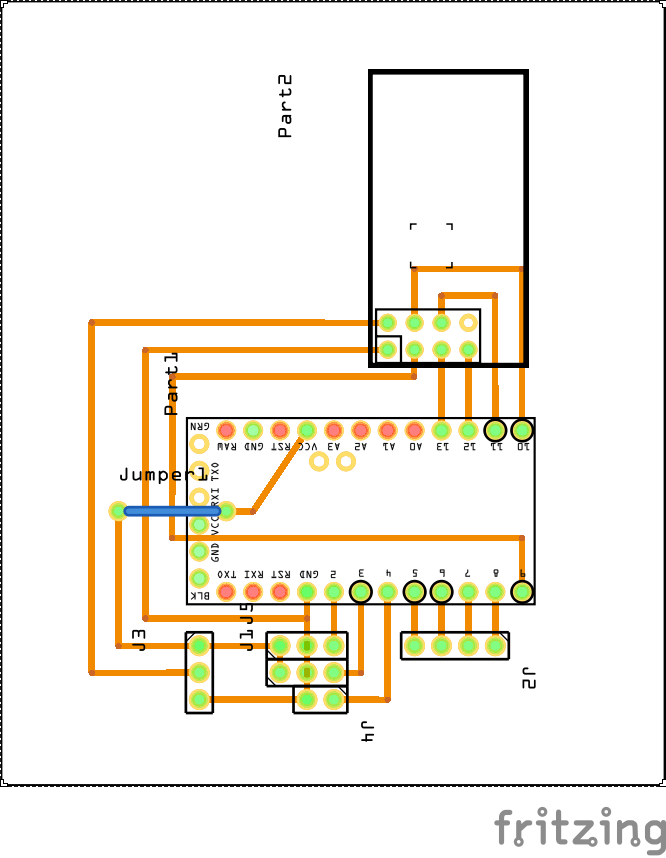
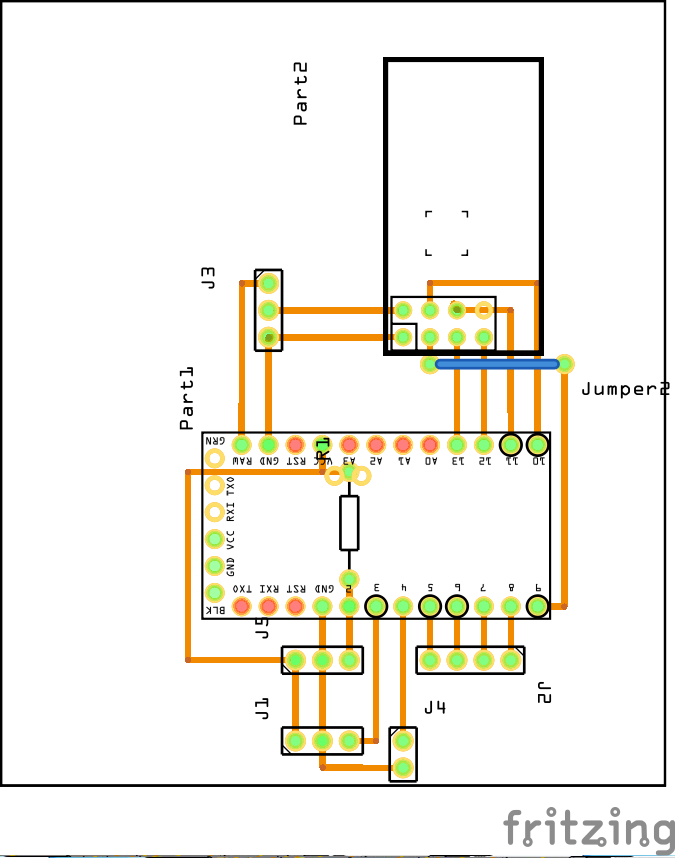
Water level control added

diff --git a/src/main.cpp b/src/main.cpp
@@ -1,5 +1,6 @@
 #define MY_RADIO_NRF24
 #define MY_DEBUG
+#define MY_NODE_ID 1
 
 #include <SPI.h>
 #include <MySensors.h>
@@ -15,21 +16,22 @@
 
 #define WATER_LEVEL_PIN 4
 
-#define TEMPERATURE_CHILD_ID 0
-#define FLOW_CHILD_ID 1
-#define VOLUME_CHILD_ID 2
-#define LEVEL_CHILD_ID 3
+#define RELAY_1_PIN 5
+
+#define TEMPERATURE_CHILD_ID 1
+#define WATER_CHILD_ID 2
+#define RELAY_1_ID 11
 
 MyMessage tempMsg(TEMPERATURE_CHILD_ID, V_TEMP);
-MyMessage flowMsg(FLOW_CHILD_ID, V_FLOW);
-MyMessage volumeMsg(VOLUME_CHILD_ID, V_VOLUME);
-MyMessage levelMsg(LEVEL_CHILD_ID, V_STATUS);
+MyMessage flowMsg(WATER_CHILD_ID, V_FLOW);
+MyMessage volumeMsg(WATER_CHILD_ID, V_VOLUME);
+MyMessage levelMsg(WATER_CHILD_ID, V_VAR1);
 
 OneWire oneWire(WATER_TEMPERATURE_PIN);
 DallasTemperature sensors(&oneWire);
 Bounce debouncer = Bounce();
 
-volatile byte flowPulseCount;
+volatile uint32_t flowPulseCount;
 
 unsigned long volume;
 
@@ -48,13 +50,13 @@ void before() {
 }
 
 void presentation() {
-    sendSketchInfo("Aquarium sensors", "0.4");
+    sendSketchInfo("Aquarium sensors", "0.5");
     wait(500);
     present(TEMPERATURE_CHILD_ID, S_TEMP, "Water temperature");
     wait(500);
-    present(FLOW_CHILD_ID, S_WATER, "Water flow");
+    present(WATER_CHILD_ID, S_WATER, "Water flow/level");
     wait(500);
-    present(LEVEL_CHILD_ID, S_BINARY, "Water level");
+    present(RELAY_1_ID, S_BINARY, "Relay 1");
     wait(500);
 }
 
@@ -63,6 +65,9 @@ void setup() {
 
     pinMode(WATER_FLOW_PIN, INPUT_PULLUP);
     pinMode(WATER_LEVEL_PIN, INPUT_PULLUP);
+    pinMode(RELAY_1_PIN, OUTPUT);
+
+    digitalWrite(RELAY_1_PIN, HIGH);
 
     flowPulseCount = 0;
     volume = 0;
@@ -75,37 +80,35 @@ void setup() {
     attachInterrupt(WATER_FLOW_INTERRUPT, pulseCounter, FALLING);
 }
 
-void updateFlow() {
+void updateFlow(unsigned long deltaTime) {
     detachInterrupt(WATER_FLOW_INTERRUPT);
 
-    float flowRate = ((1000.0 / (millis() - oldTime)) * flowPulseCount) / WATER_FLOW_CALIBRATION;
+    float flowRate = ((1000.0 / deltaTime) * flowPulseCount) / WATER_FLOW_CALIBRATION;
 
-    oldTime = millis();
+    // unsigned int flowMilliLitres = (flowRate / 60) * 1000;
 
-    unsigned int flowMilliLitres = (flowRate / 60) * 1000;
+    // volume += flowMilliLitres;
 
-    volume += flowMilliLitres;
+    // Serial.print("Flow rate: ");
+    // Serial.print(flowRate);
+    // Serial.println("L/min");
 
-    Serial.print("Flow rate: ");
-    Serial.print(flowRate);
-    Serial.println("L/min");
-
-    Serial.print("Liquid Quantity: ");
-    Serial.print(volume);
-    Serial.println("mL");
-    Serial.print("\t"); // Print tab space
-    Serial.print(volume / 1000);
-    Serial.println("L");
+    // Serial.print("Liquid Quantity: ");
+    // Serial.print(volume);
+    // Serial.println("mL");
+    // Serial.print("\t"); // Print tab space
+    // Serial.print(volume / 1000);
+    // Serial.println("L");
 
     if (flowRate != oldFlowRate) {
-        send(flowMsg.set(flowRate, 2));
         oldFlowRate = flowRate;
+        send(flowMsg.set(flowRate, 2));
     }
 
-    if (volume != oldVolume) {
-        send(volumeMsg.set(volume, 3));
-        oldVolume = volume;
-    }
+    // if (volume != oldVolume) {
+    //     send(volumeMsg.set(volume, 3));
+    //     oldVolume = volume;
+    // }
 
     flowPulseCount = 0;
 
@@ -140,9 +143,19 @@ void updateLevel() {
 void loop() {
     debouncer.update();
 
-    if ((millis() - oldTime) > 1000) {
-        updateFlow();
-        updateTemperature();
+    unsigned long now = millis();
+    unsigned long deltaTime = now - oldTime;
+    if (deltaTime > 1000) {
+        updateFlow(deltaTime);
+        // updateTemperature();
         updateLevel();
+        oldTime = now;
+    }
+}
+
+
+void receive(const MyMessage &message) {
+    if (message.sensor == RELAY_1_ID && message.type == V_STATUS) {
+        digitalWrite(RELAY_1_PIN, message.getBool() ? LOW : HIGH);
     }
 }

diff --git a/README.md b/README.md
@@ -1,0 +1,23 @@
+# AquaSensor
+AquaSensor - MySensors based controller for aquarium.
+My goal is to make hardware as dumb as possible with external control (openHAB in my case), so one can use it with any smart home controller.
+
+## Basic functions
+Sensors:
+* water flow sensor
+* water temperature sensor
+* water level sensor
+
+Relays:
+* relay for peristaltic pump
+* relay for light
+* relay for CO2/O2
+* relay for cooler fans
+
+Sensors and relays are not coupled, sensors send information to controller, relays listen for controller's comands, all rules should be implemented as controller rules or scripts.
+
+## Compile/Upload
+
+**Arduino uno:** platformio run -e uno
+
+**Arduino pro micro:** platformio run -e pro -t program
